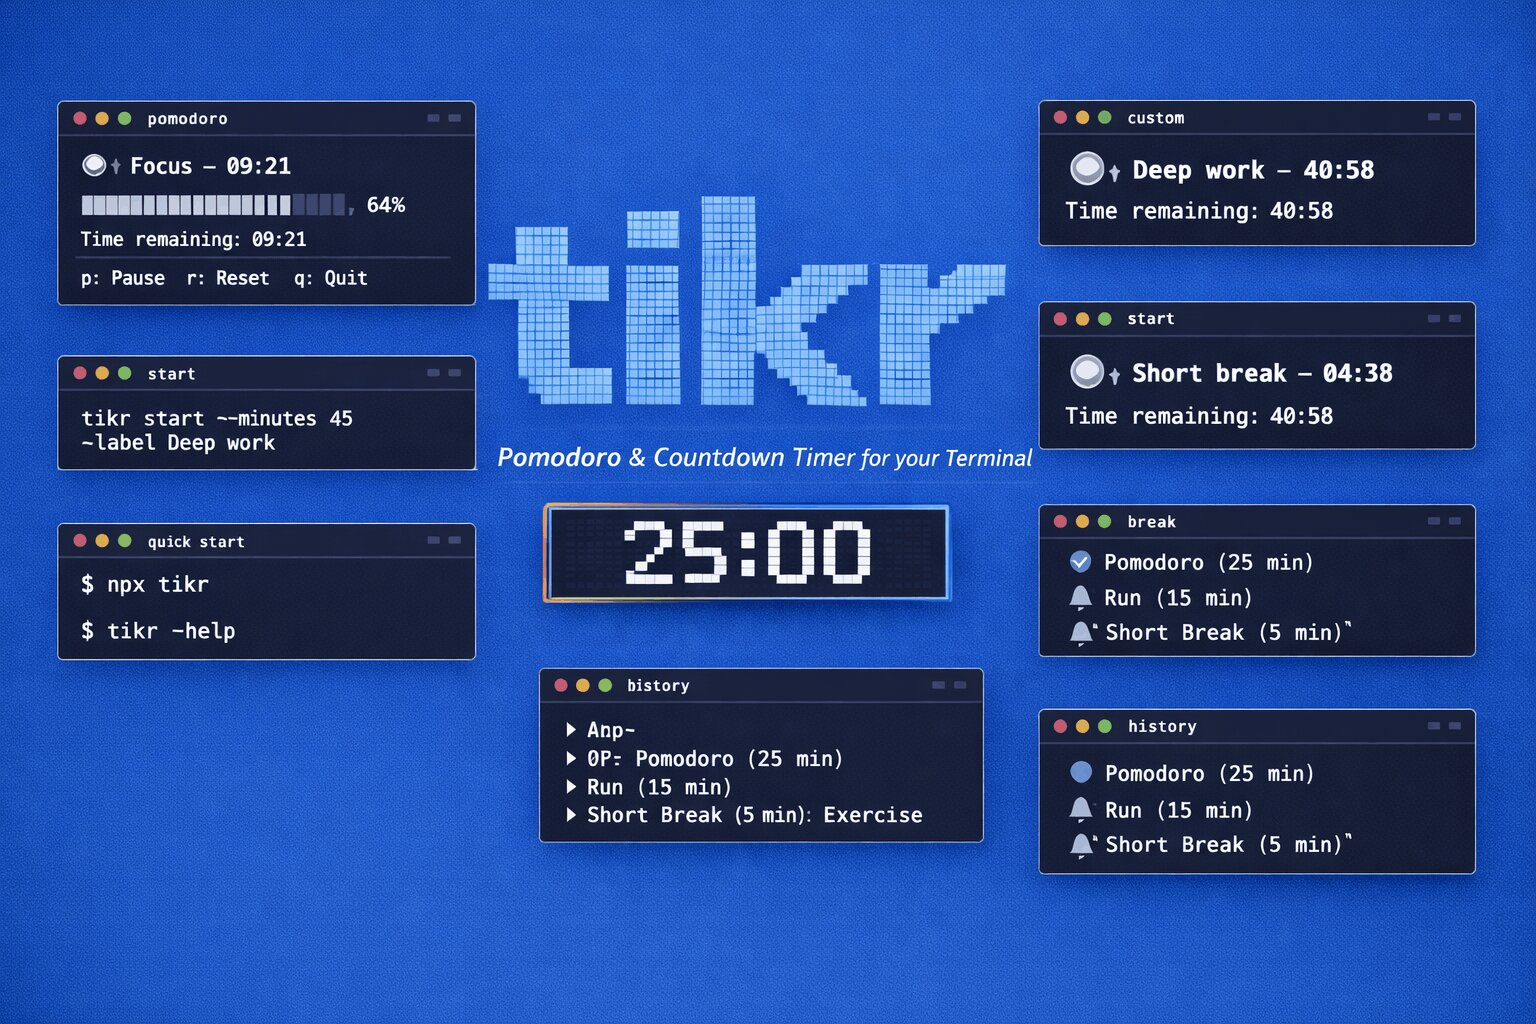
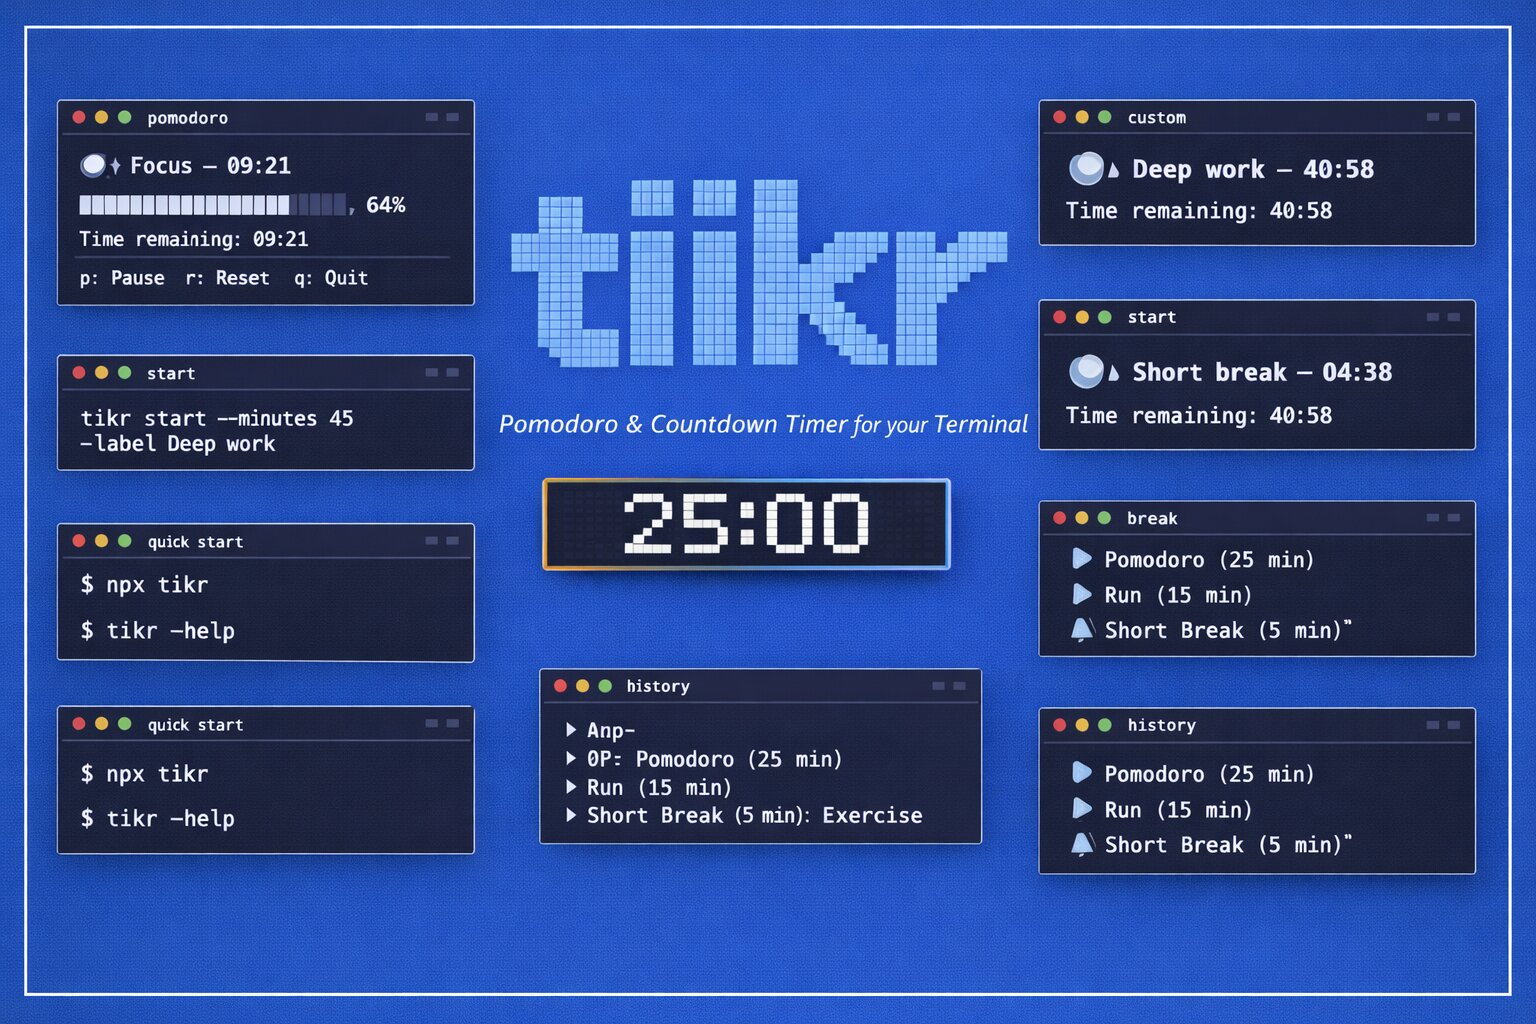
refactor: rename project from tikr to tiikr and update references

diff --git a/src/index.ts b/src/index.ts
@@ -6,6 +6,7 @@ import { runStart } from './commands/start.js';
 import { runBreak } from './commands/break.js';
 import { runHistory } from './commands/history.js';
 import { printBanner } from './ui/banner.js';
+import { CLI_NAME } from './constants.js';
 
 const require = createRequire(import.meta.url);
 const { version } = require('../package.json') as { version: string };
@@ -13,7 +14,7 @@ const { version } = require('../package.json') as { version: string };
 const program = new Command();
 
 program
-  .name('tikr')
+  .name(CLI_NAME)
   .description('A beautiful Pomodoro & countdown timer, right in your terminal')
   .version(version, '-v, --version', 'Show current version')
   .helpOption('-h, --help', 'Show help');

diff --git a/src/ui/banner.ts b/src/ui/banner.ts
@@ -1,16 +1,17 @@
 import figlet from 'figlet';
 import pc from 'picocolors';
+import { CLI_NAME } from '../constants';
 
 export function printBanner(): void {
   const width = process.stdout.columns || 80;
   const font: figlet.Fonts = width >= 80 ? 'ANSI Shadow' : 'Small';
 
   try {
-    const art = figlet.textSync('tikr', { font });
+    const art = figlet.textSync(CLI_NAME, { font });
     console.log(pc.white(art));
     console.log(pc.gray('  ⏱  A beautiful Pomodoro & countdown timer\n'));
   } catch {
-    console.log(pc.white('\n  tikr'));
+    console.log(pc.white(`\n  ${CLI_NAME}`));
     console.log(pc.gray('  ⏱  A beautiful Pomodoro & countdown timer\n'));
   }
 }

diff --git a/src/lib/notify.ts b/src/lib/notify.ts
@@ -1,10 +1,11 @@
 import notifier from 'node-notifier';
 import type { SessionType } from '../types.js';
+import { CLI_NAME } from '../constants.js';
 
 export function sendNotification(label: string, type: SessionType): void {
   const message = type === 'break' ? 'Break time is over!' : 'Time to take a break!';
   notifier.notify({
-    title: `tikr — ${label}`,
+    title: `${CLI_NAME} — ${label}`,
     message,
     sound: false,
   });

diff --git a/src/lib/history.ts b/src/lib/history.ts
@@ -2,8 +2,9 @@ import { readFileSync, writeFileSync, mkdirSync, existsSync } from 'fs';
 import { homedir } from 'os';
 import { join } from 'path';
 import type { Session } from '../types.js';
+import { CLI_NAME } from '../constants.js';
 
-const HISTORY_DIR = join(homedir(), '.tikr');
+const HISTORY_DIR = join(homedir(), `.${CLI_NAME}`);
 const HISTORY_FILE = join(HISTORY_DIR, 'history.json');
 
 function ensureDir(): void {

diff --git a/src/constants.ts b/src/constants.ts
@@ -1,0 +1,1 @@
+export const CLI_NAME = 'tiikr'

diff --git a/README.md b/README.md
@@ -1,6 +1,6 @@
-![tikr cover](./assets/cover.jpg)
+![tiikr cover](./assets/cover.jpg)
 
-# tikr
+# tiikr
 
 A beautiful Pomodoro & countdown timer, right in your terminal.
 
@@ -11,7 +11,7 @@ A beautiful Pomodoro & countdown timer, right in your terminal.
 - **Interactive menu** — pick a session type without memorizing commands.
 - **ASCII progress bar** — live visual countdown with pause and reset controls.
 - **Desktop notifications** — alerts you when time is up.
-- **Session history** — completed sessions logged to `~/.tikr/history.json`.
+- **Session history** — completed sessions logged to `~/.tiikr/history.json`.
 - **Colorized output** — clean, readable terminal UI.
 
 ## Install
@@ -19,13 +19,13 @@ A beautiful Pomodoro & countdown timer, right in your terminal.
 Run instantly:
 
 ```bash
-npx tikr
+npx tiikr
 ```
 
 Or install globally:
 
 ```bash
-npm i -g tikr
+npm i -g tiikr
 ```
 
 **Requirements:** Node.js >= 18
@@ -34,26 +34,26 @@ npm i -g tikr
 
 ```bash
 # Launch the interactive menu
-tikr
+tiikr
 
 # Start a 25-min Pomodoro session
-tikr pomodoro
+tiikr pomodoro
 
 # Run a custom countdown
-tikr start --minutes 45 --label "Deep work"
+tiikr start --minutes 45 --label "Deep work"
 
 # Take a short or long break
-tikr break
-tikr break --long
+tiikr break
+tiikr break --long
 
 # View session history
-tikr history --today
+tiikr history --today
 ```
 
 ## CLI Reference
 
 ```text
-Usage: tikr [options] [command]
+Usage: tiikr [options] [command]
 
 A beautiful Pomodoro & countdown timer, right in your terminal
 
@@ -126,7 +126,7 @@ While a timer is running:
 
 ## Session Log
 
-Completed sessions are saved to `~/.tikr/history.json`:
+Completed sessions are saved to `~/.tiikr/history.json`:
 
 ```json
 [
